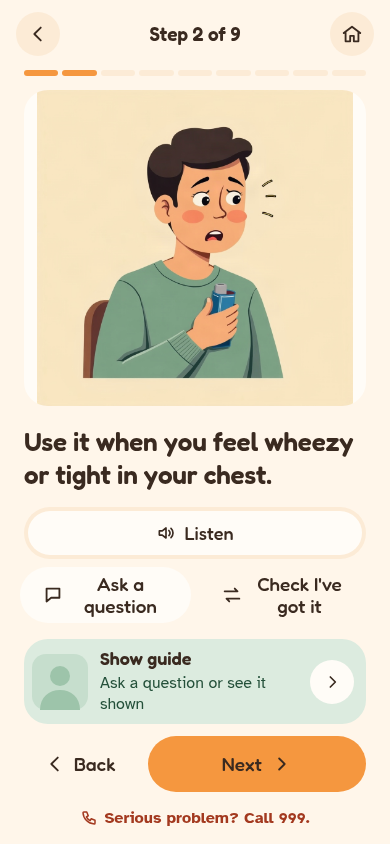
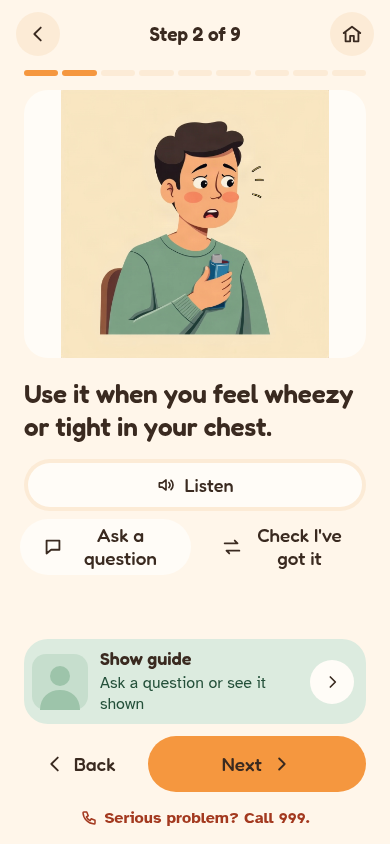
Compact live dock with status chip and live caption; step stays visible at 700px; translated network errors

diff --git a/web/src/screens.tsx b/web/src/screens.tsx
@@ -37,6 +37,10 @@ export interface LiveInfo {
   onShow?: () => void;
   /** Stop the guide mid-sentence. */
   onPause?: () => void;
+  /** i18n key of the dock status chip. */
+  status?: string;
+  /** Open the question sheet. */
+  onAsk?: () => void;
 }
 export const LiveContext = createContext<LiveInfo | null>(null);
 /** Home and Summary shortcuts for every title bar. */
@@ -80,38 +84,36 @@ function GuideDock({ text, lang }: { text: string; lang: string }) {
     );
   }
   const caption = info.caption || text;
+  // Compact, one row: video tile, status chip + two-line caption, icon buttons. Typing lives in the question sheet.
   return (
-    <section className="dock dock-live" aria-label={t(lang, "guideSays")}>
-      <div className="dock-row">
-        <div className="avslot dockvid" data-avatar-slot="dock" />
-        <div className="dock-cap" aria-live="polite">
-          <b>{t(lang, "guideSays")}</b>
-          <span dir="auto">{caption}</span>
-        </div>
-        <button className="icon-btn end" onClick={info.onHide ?? info.onEnd} aria-label={t(lang, "hideGuide")} title={t(lang, "hideGuide")}>
-          <Icon name="x" />
-        </button>
+    <section className="dock dock-live dock-compact" aria-label={t(lang, "guideSays")}>
+      <div className="avslot dockvid" data-avatar-slot="dock" />
+      <div className="dock-mid">
+        <span className={"st-chip st-" + (info.status ?? "stReady")} role="status">
+          {t(lang, info.status ?? "stReady")}
+        </span>
+        <span className="dock-cap2" dir="auto" aria-live="polite">
+          {caption}
+        </span>
       </div>
-      <div className="dock-ctl">
+      <div className="dock-icons">
         {info.onPause && (
-          <button type="button" className="btn quiet small" onClick={info.onPause}>
-            {t(lang, "pauseGuide")}
+          <button type="button" className="icon-btn" onClick={info.onPause} aria-label={t(lang, "pauseGuide")} title={t(lang, "pauseGuide")}>
+            <Icon name="pause" />
           </button>
         )}
-        {info.onHide && (
-          <button type="button" className="btn quiet small" onClick={info.onHide}>
-            {t(lang, "hideGuide")}
-          </button>
-        )}
-      </div>
-      <TypeBar lang={lang} onSend={info.onSend}>
-        <button type="button" className="icon-btn mic" onClick={info.onToggleMic} aria-pressed={info.micMuted} aria-label={t(lang, info.micMuted ? "unmuteMic" : "muteMic")}>
-          <Icon name="mic" />
-        </button>
         <button type="button" className="icon-btn" onClick={info.onToggleSound} aria-pressed={info.soundOff} aria-label={t(lang, info.soundOff ? "soundOn" : "soundOff")}>
           <Icon name="volume" />
         </button>
-      </TypeBar>
+        {info.onAsk && (
+          <button type="button" className="icon-btn" onClick={info.onAsk} aria-label={t(lang, "askQ")} title={t(lang, "askQ")}>
+            <Icon name="chat" />
+          </button>
+        )}
+        <button type="button" className="icon-btn end" onClick={info.onHide ?? info.onEnd} aria-label={t(lang, "hideGuide")} title={t(lang, "hideGuide")}>
+          <Icon name="x" />
+        </button>
+      </div>
     </section>
   );
 }

diff --git a/web/src/useAnam.ts b/web/src/useAnam.ts
@@ -20,6 +20,10 @@ export function useAnam(
   const [sttMissing, setSttMissing] = useState(false); // the avatar cannot hear this language: the user types instead
   const [micMuted, setMicMuted] = useState(false);
   const [soundOff, setSoundOff] = useState(false);
+  /** What the guide is doing, for the dock's status chip. */
+  const [activity, setActivity] = useState<"idle" | "talking" | "listening" | "paused">("idle");
+  const [liveCaption, setLiveCaption] = useState("");
+  const captionId = useRef("");
   const clientRef = useRef<ReturnType<typeof createClient> | null>(null);
   const handlersRef = useRef(handlers);
   handlersRef.current = handlers;
@@ -79,6 +83,17 @@ export function useAnam(
             },
           });
         }
+        client.addListener(AnamEvent.MESSAGE_STREAM_EVENT_RECEIVED, (e: { id: string; content: string; role: string; endOfSpeech: boolean; interrupted: boolean }) => {
+          if (e.role !== "persona") return;
+          if (e.id !== captionId.current) {
+            captionId.current = e.id;
+            setLiveCaption(e.content);
+          } else setLiveCaption((c) => c + e.content);
+          setActivity(e.endOfSpeech || e.interrupted ? "idle" : "talking");
+        });
+        client.addListener(AnamEvent.USER_SPEECH_STARTED, () => setActivity("listening"));
+        client.addListener(AnamEvent.USER_SPEECH_ENDED, () => setActivity("idle"));
+        client.addListener(AnamEvent.TALK_STREAM_INTERRUPTED, () => setActivity((a) => (a === "paused" ? a : "idle")));
         client.addListener(AnamEvent.CONNECTION_CLOSED, () => {
           if (clientRef.current === client) {
             clientRef.current = null;
@@ -144,6 +159,7 @@ export function useAnam(
     const msg = text.trim();
     if (!msg) return false;
     try {
+      setActivity("idle");
       clientRef.current?.sendUserMessage(msg);
       return !!clientRef.current;
     } catch {
@@ -164,6 +180,7 @@ export function useAnam(
   const interrupt = useCallback(() => {
     try {
       clientRef.current?.interruptPersona();
+      if (clientRef.current) setActivity("paused");
     } catch {
       /* not live */
     }
@@ -184,5 +201,5 @@ export function useAnam(
 
   useEffect(() => () => void stop(), [stop]);
 
-  return { state, error, sttMissing, micMuted, soundOff, start, stop, toggleMic, toggleSound, setLanguage, send, talk, interrupt, quiet };
+  return { state, error, sttMissing, micMuted, soundOff, start, stop, toggleMic, toggleSound, setLanguage, send, talk, interrupt, quiet, activity, liveCaption };
 }

diff --git a/web/src/i18n.ts b/web/src/i18n.ts
@@ -1787,6 +1787,12 @@ Object.assign(bn, {
 });
 
 // v3 guide-led
+Object.assign(en, { stTalking: "Guide is talking", stListening: "Listening to you", stPaused: "Paused", stReading: "Reading aloud", stClip: "Quiet while clip plays", stSoundOff: "Sound off", stReady: "Your guide" });
+Object.assign(es, { stTalking: "La guía está hablando", stListening: "Le escucho", stPaused: "En pausa", stReading: "Leyendo en voz alta", stClip: "En silencio durante el vídeo", stSoundOff: "Sin sonido", stReady: "Su guía" });
+Object.assign(ar, { stTalking: "المرشد يتحدث", stListening: "أستمع إليك", stPaused: "متوقف مؤقتًا", stReading: "قراءة بصوت عالٍ", stClip: "صامت أثناء الفيديو", stSoundOff: "الصوت مغلق", stReady: "مرشدك" });
+Object.assign(ur, { stTalking: "گائیڈ بول رہا ہے", stListening: "آپ کی بات سن رہا ہے", stPaused: "رکا ہوا", stReading: "بلند آواز سے پڑھ رہا ہے", stClip: "ویڈیو کے دوران خاموش", stSoundOff: "آواز بند", stReady: "آپ کا گائیڈ" });
+Object.assign(pl, { stTalking: "Przewodnik mówi", stListening: "Słucham cię", stPaused: "Wstrzymano", stReading: "Czytam na głos", stClip: "Cisza podczas filmu", stSoundOff: "Dźwięk wyłączony", stReady: "Twój przewodnik" });
+Object.assign(bn, { stTalking: "গাইড কথা বলছে", stListening: "আপনার কথা শুনছে", stPaused: "থামানো", stReading: "জোরে পড়ছে", stClip: "ভিডিওর সময় চুপ", stSoundOff: "শব্দ বন্ধ", stReady: "আপনার গাইড" });
 Object.assign(en, { startWithGuide: "Start with my guide", guideMoved: "Your guide moved you to step {n}", undo: "Undo", stillOnStep: "You are still on step {n}.", backToStep: "Back to step {n}", notATest: "Not a test. Just a quick check.", skip: "Skip" });
 Object.assign(es, { startWithGuide: "Empezar con mi guía", guideMoved: "Su guía le llevó al paso {n}", undo: "Deshacer", stillOnStep: "Sigue en el paso {n}.", backToStep: "Volver al paso {n}", notATest: "No es un examen. Solo una comprobación.", skip: "Saltar" });
 Object.assign(ar, { startWithGuide: "ابدأ مع مرشدي", guideMoved: "نقلك مرشدك إلى الخطوة {n}", undo: "تراجع", stillOnStep: "ما زلت في الخطوة {n}.", backToStep: "العودة إلى الخطوة {n}", notATest: "ليس اختبارًا. مجرد تحقق سريع.", skip: "تخطَّ" });

diff --git a/web/src/App.tsx b/web/src/App.tsx
@@ -4,7 +4,7 @@ import type { Clip, Guide, ToolLogEntry } from "./types";
 import { LANGUAGES, t } from "./i18n";
 import { cleanLanguage, isRtl, languageLabel, languageValue } from "./languages";
 import { useAnam, type ToolHandler } from "./useAnam";
-import { claimAudio, setGuideQuiet, speak, stopSpeaking, voiceSettings } from "./speech";
+import { audioOwner, claimAudio, onAudioChange, setGuideQuiet, speak, stopSpeaking, voiceSettings } from "./speech";
 import { applyTheme, dockOn, initialTheme, type Theme } from "./look";
 import { forgetGuide, initialDemo, myGuideIds, rememberGuide, saveDemo } from "./mode";
 import {
@@ -332,6 +332,8 @@ export default function App() {
   setGuideQuiet(anam.quiet);
   const fakeLiveEarly = import.meta.env.DEV && demo && location.search.includes("fakelive");
   const isLive = fakeLiveEarly || anam.state === "live";
+  const [owner, setOwner] = useState(audioOwner());
+  useEffect(() => onAudioChange(() => setOwner(audioOwner())), []);
   const liveRef = useRef(isLive);
   liveRef.current = isLive;
   useEffect(() => {
@@ -604,7 +606,21 @@ export default function App() {
     onToggleSound: anam.toggleSound,
     onSend: anam.send,
     dock: dockOn(),
-    caption: lastSay,
+    caption: anam.liveCaption || lastSay,
+    status: anam.soundOff
+      ? "stSoundOff"
+      : owner === "clip"
+      ? "stClip"
+      : owner === "tts"
+      ? "stReading"
+      : anam.activity === "paused"
+      ? "stPaused"
+      : anam.activity === "listening"
+      ? "stListening"
+      : anam.activity === "talking" || fakeLiveEarly
+      ? "stTalking"
+      : "stReady",
+    onAsk: () => setAskOpen(true),
     onTalk: () => go("talk"),
     state: liveState,
     // "Talk to your guide" on a step opens the live avatar in the dock, on that step. Only ever on a tap.

diff --git a/web/src/styles.css b/web/src/styles.css
@@ -849,3 +849,17 @@ body { font-size: var(--fs-body); line-height: 1.5; }
 .link-btn { background: none; border: 0; font: inherit; font-weight: 700; text-decoration: underline; color: var(--sage-ink); margin-inline-start: 0.5rem; padding: 0.25rem; min-height: 2.75rem; }
 .btn.start-guide { display: flex; align-items: center; justify-content: center; gap: 0.625rem; margin-bottom: 0.5rem; }
 .btn.start-guide .av, .btn.start-guide svg { width: 2rem; height: 2rem; }
+
+/* v3 compact live dock: one row, the step stays visible */
+.dock.dock-compact { flex-direction: row; align-items: center; gap: 0.625rem; padding: 0.5rem; }
+.dock-compact .dockvid { width: 4.5rem; height: 4.5rem; border-radius: 0.875rem; }
+.dock-mid { flex: 1; min-width: 0; display: flex; flex-direction: column; gap: 0.25rem; }
+.st-chip { align-self: flex-start; font-size: 0.8125rem; font-weight: 700; padding: 0.125rem 0.5rem; border-radius: var(--r-pill); background: var(--sage); color: var(--sage-ink); }
+.st-chip.st-stPaused, .st-chip.st-stSoundOff, .st-chip.st-stClip { background: var(--cream-deep); color: var(--ink); }
+.st-chip.st-stListening { background: var(--sun); color: var(--on-sun); }
+.dock-cap2 { font-size: 0.9375rem; line-height: 1.3; display: -webkit-box; -webkit-line-clamp: 2; -webkit-box-orient: vertical; overflow: hidden; overflow-wrap: anywhere; }
+.dock-icons { display: grid; grid-template-columns: repeat(2, 2.75rem); gap: 0.25rem; }
+.dock-icons .icon-btn { width: 2.75rem; height: 2.75rem; }
+.step-screen .pic { flex: 0 0 auto; min-height: 0; height: clamp(7rem, calc(100dvh - 36rem), 17rem); max-height: none; }
+.step-screen.is-live .pic { height: clamp(7rem, calc(100dvh - 32rem), 17rem); }
+.step-screen .pic.small { height: 7rem; }

diff --git a/web/src/speech.ts b/web/src/speech.ts
@@ -31,18 +31,32 @@ export function claimAudio(who: AudioOwner) {
   if (who === "guide") guideQuiet(false);
   else if (who !== "none") guideQuiet(true);
   owner = who;
+  notify();
+}
+const listeners = new Set<() => void>();
+function notify() {
+  for (const fn of listeners) fn();
+}
+/** Re-render on audio owner changes (the dock status chip). */
+export function onAudioChange(fn: () => void) {
+  listeners.add(fn);
+  return () => void listeners.delete(fn);
 }
 /** Give the audio back (a clip ended): the guide may speak again. */
 export function releaseAudio(who: AudioOwner) {
   if (owner !== who) return;
   owner = "none";
   if (who === "clip") guideQuiet(false);
+  notify();
 }
 export const audioOwner = () => owner;
 
 export function stopSpeaking() {
   stopTts();
-  if (owner === "tts") owner = "none";
+  if (owner === "tts") {
+    owner = "none";
+    notify();
+  }
 }
 
 function browserVoice(text: string, lang: string) {
@@ -72,6 +86,12 @@ export async function speak(text: string, lang: string): Promise<void> {
         const blob = await res.blob();
         if (mine !== token) return;
         const a = new Audio(URL.createObjectURL(blob));
+        a.onended = () => {
+          if (audio === a && owner === "tts") {
+            owner = "none";
+            notify();
+          }
+        };
         a.playbackRate = voiceSettings.rate;
         audio = a;
         try {

diff --git a/web/src/api.ts b/web/src/api.ts
@@ -51,12 +51,16 @@ const ERROR_KEYS: Record<string, string> = {
   too_many_pages: "errTooPages",
   document_required: "errNoDoc",
   server: "errServer",
+  ai_timeout: "errTimeout",
+  image_unreadable: "errImage",
+  demo_mode_no_key: "errDemoKey",
   client: "errGeneric",
 };
 
 /** The error text in the user's language when we have it; otherwise the server's English detail. */
 export function errorText(lang: string, e: unknown): string {
-  if (!(e instanceof ApiError)) return e instanceof Error ? e.message : String(e);
+  // fetch() itself failed (offline, server down): a plain translated line, never a raw "Failed to fetch".
+  if (!(e instanceof ApiError)) return t(lang, "serverDown");
   const key = ERROR_KEYS[e.code];
   if (!key || isFallback(lang, key)) return e.message;
   return t(lang, key).replace("{max}", e.message.match(/\d+/)?.[0] ?? "");

diff --git a/web/src/icons.tsx b/web/src/icons.tsx
@@ -6,6 +6,7 @@ const PATHS: Record<string, { vb: number; d: string; fill?: boolean }> = {
   upload: { vb: 32, d: "M16 22V6M9 12l7-7 7 7M5 27h22" },
   x: { vb: 24, d: "M5 5l14 14M19 5L5 19" },
   home: { vb: 24, d: "M3 11l9-7 9 7M5 9.5V20h5v-6h4v6h5V9.5" },
+  pause: { vb: 24, d: "M8 5v14M16 5v14" },
   play: { vb: 32, d: "M9 5l18 11L9 27z", fill: true },
   mic: { vb: 32, d: "M11 3h10v17H11zM6 15a10 10 0 0020 0M16 25v4" },
   print: { vb: 32, d: "M9 12V4h14v8M9 23H5V12h22v11h-4M9 19h14v9H9z" },
